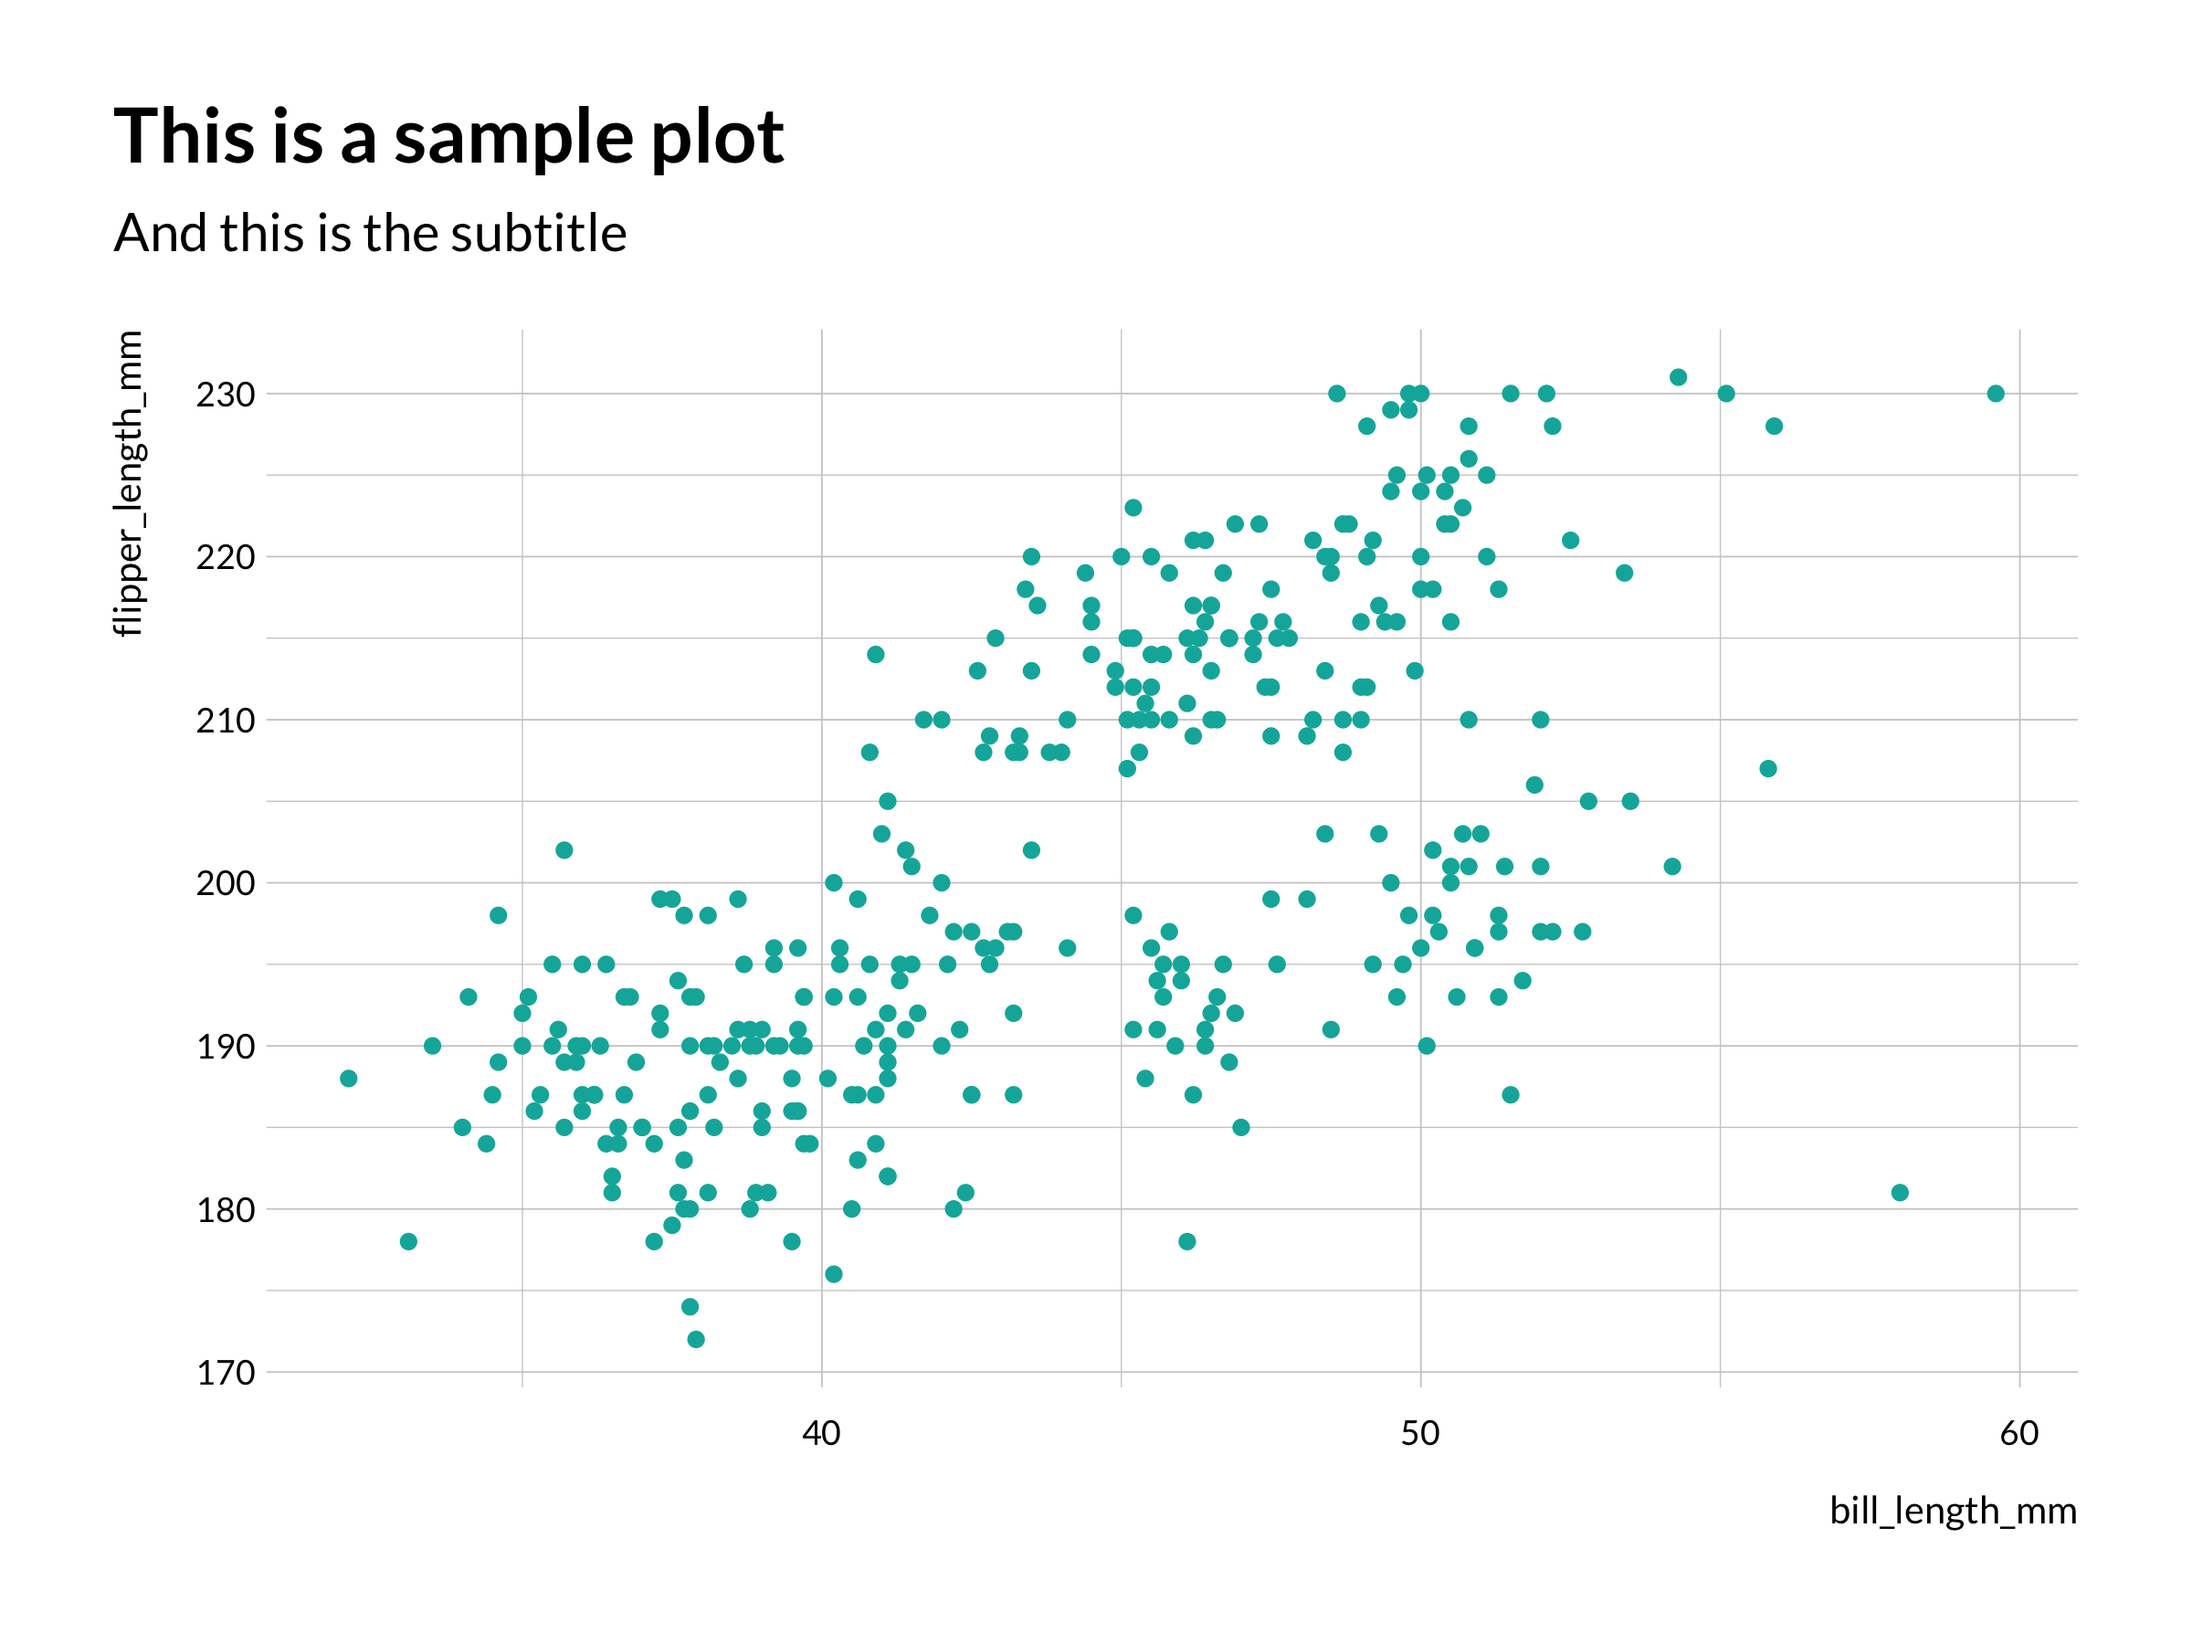
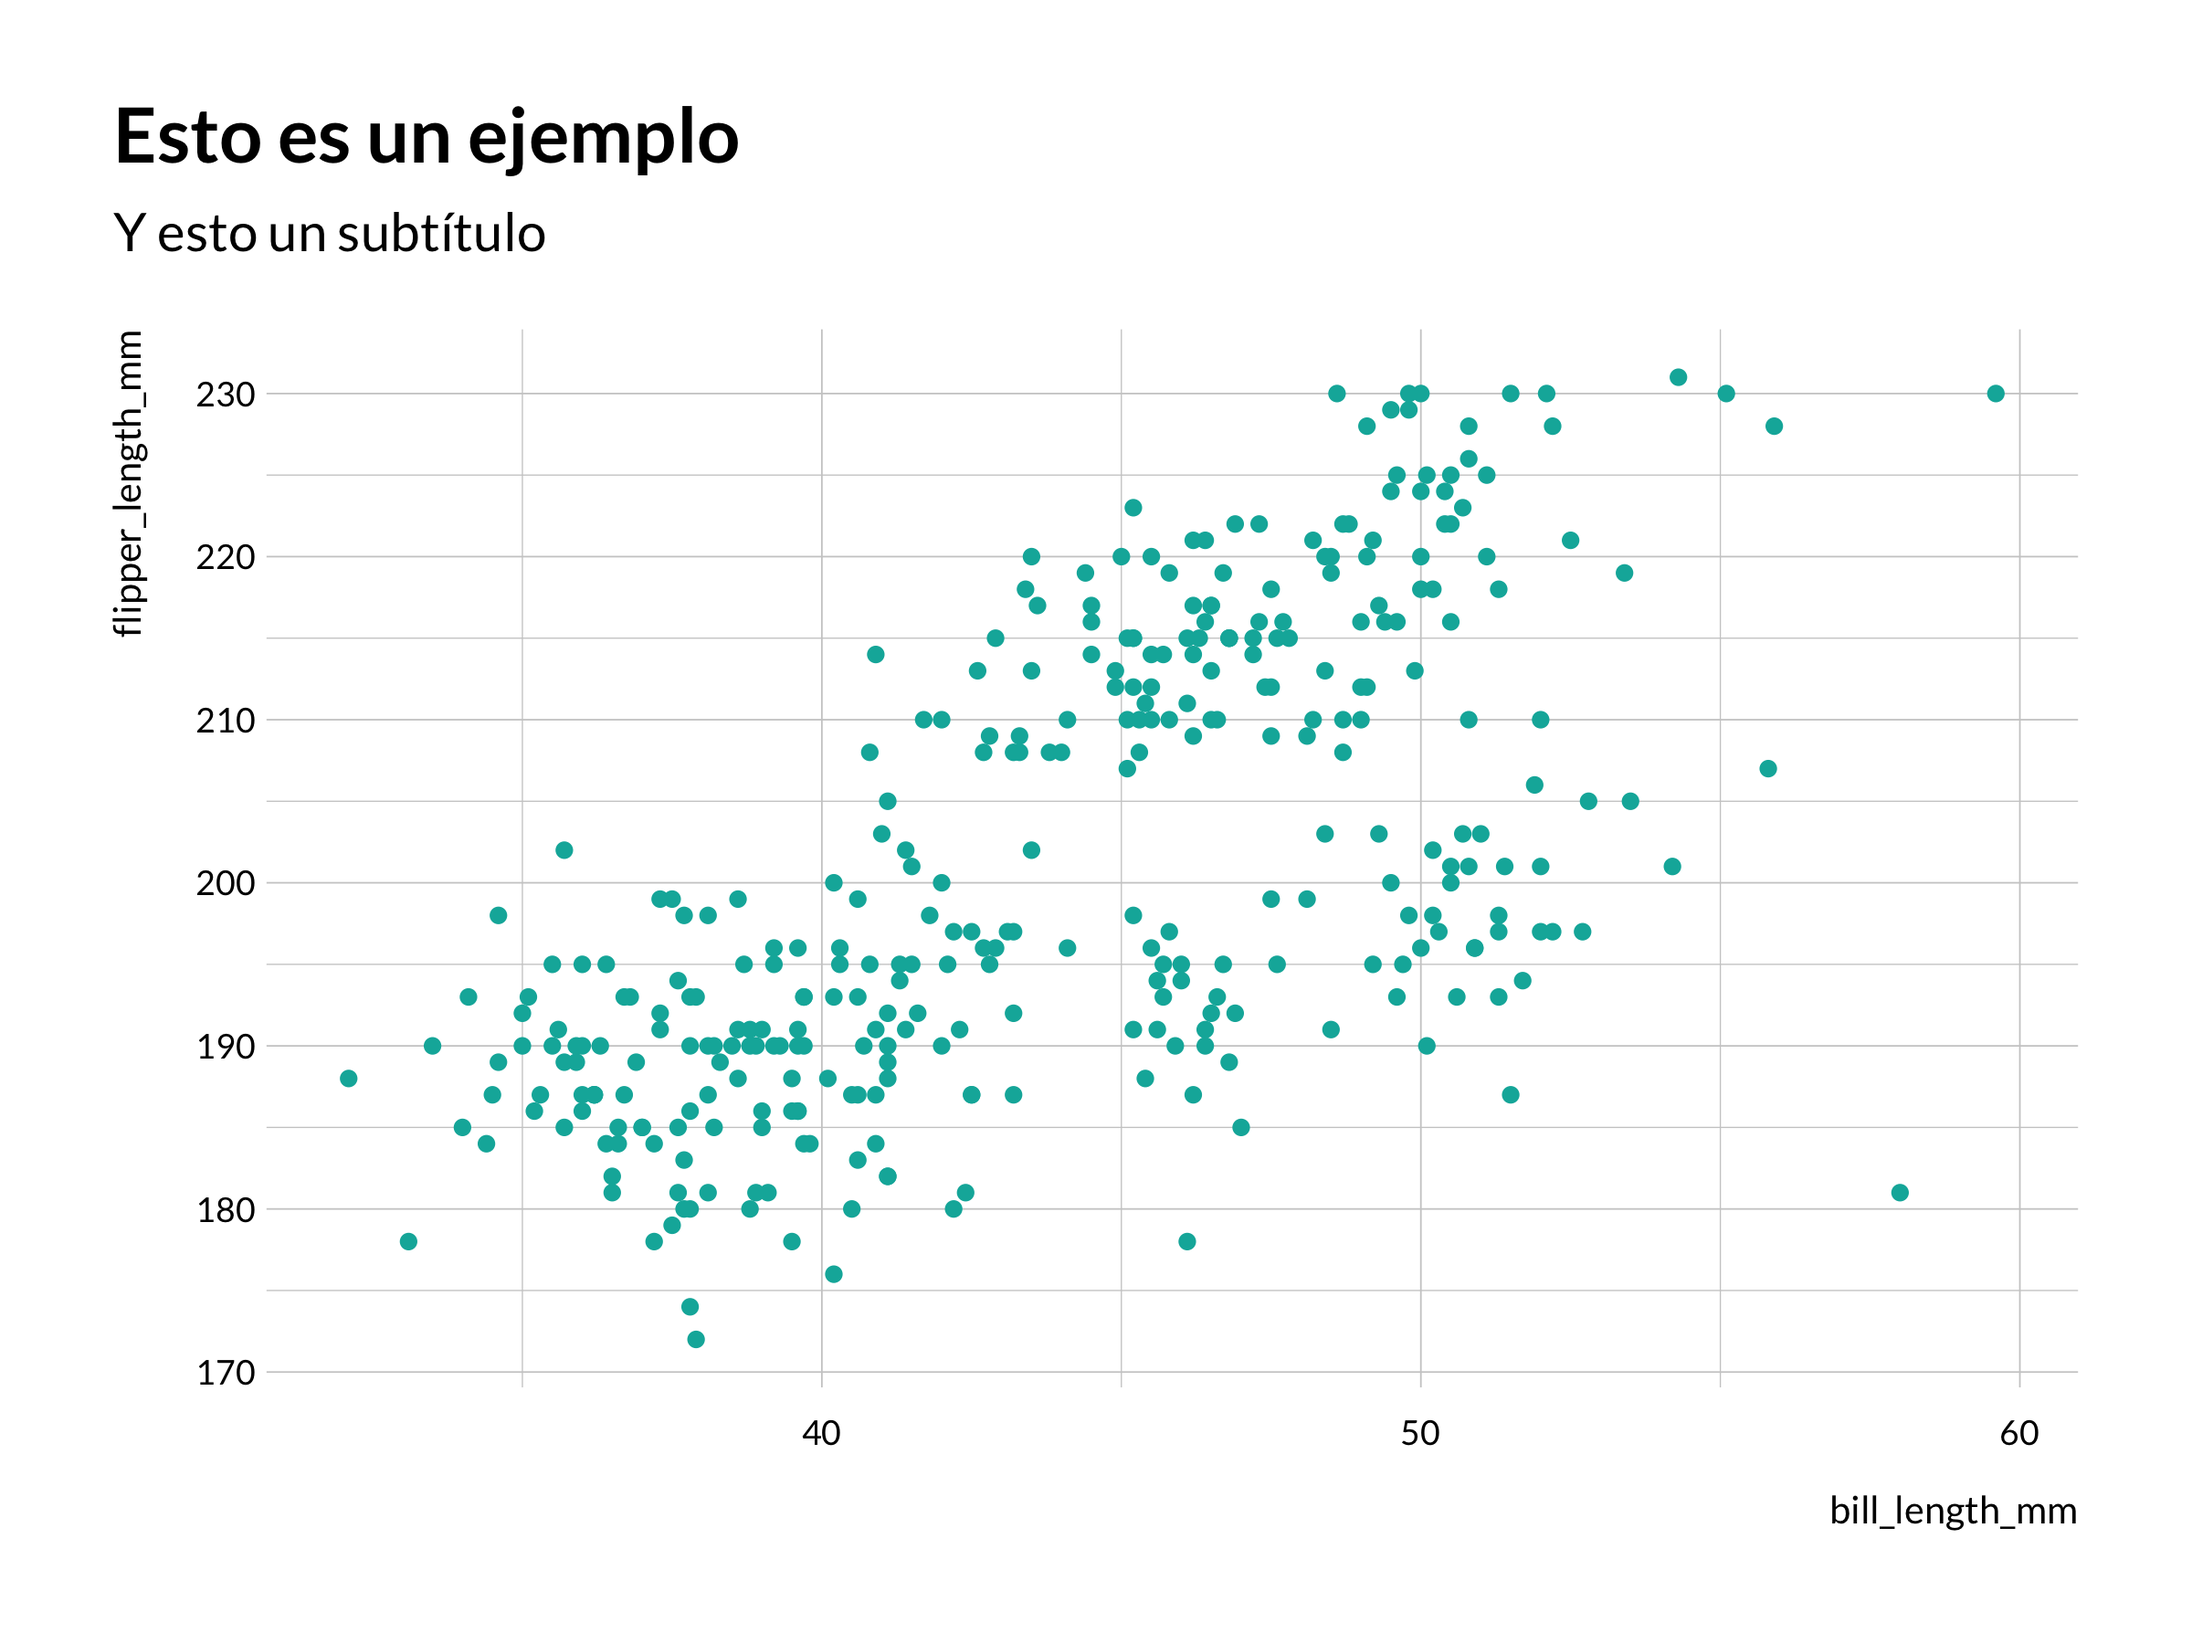
Actualizar gráficas

Changed region(s): [[0.0312, 0.0622, 0.375, 0.1556]]

diff --git a/README.md b/README.md
@@ -31,11 +31,12 @@ devtools::install_github("octmedina/ksnet")
 ## Gráficos
 
 Este es un ejemplo básico que muestra cómo resolver un problema común:
-hacer una gráfica con datos. Empecemos con un scatterplot y un
-histograma.
+hacer una gráfica con datos. Empecemos con un histograma.
 
 ``` r
 library(ksnet)
+library(palmerpenguins)
+library(ggplot2)
 
 ## Plotting a histogram of penguin bill length
 
@@ -46,25 +47,53 @@ ksnet_hist(penguins, bill_length_mm)
 
 <img src="man/figures/README-plots1-1.png" width="100%" />
 
-``` r
-## Simple scatterplot
+La función se puede usar con la pipe también. Aquí hay una gráfica de
+barra.
 
-ksnet_scatter(penguins, bill_length_mm, flipper_length_mm) 
-#> Warning: Removed 2 rows containing missing values (geom_point).
+``` r
+library(dplyr)
+#> 
+#> Attaching package: 'dplyr'
+#> The following objects are masked from 'package:stats':
+#> 
+#>     filter, lag
+#> The following objects are masked from 'package:base':
+#> 
+#>     intersect, setdiff, setequal, union
+
+## Simple barplot
+penguins %>%
+    group_by(species) %>%
+    count() %>%
+    ksnet_bar(species, n) 
 ```
 
 <img src="man/figures/README-plots2-1.png" width="100%" />
+
+Y finalmente, scatterplots. La función viene preparada para incluir el
+color estándar de KSNET, así como la plantilla de gráficos. El objeto
+que genera es un `ggplot`, así que se pueden añadir títulos y etiquetas
+fácilmente:
+
+``` r
+## Simple scatterplot
+penguins %>%
+    ksnet_scatter(bill_length_mm, flipper_length_mm) +
+    labs(title = "Pingüinos KSNET",
+         subtitle = "Según con la EPA")
+#> Warning: Removed 2 rows containing missing values (geom_point).
+```
+
+<img src="man/figures/README-plots3-1.png" width="100%" />
 
 ## Themes
 
 También podemos utilizar `themes`, o plantillas de gráficas.
 
 ``` r
-library(ggplot2)
-
 ksnet_scatter(penguins, bill_length_mm, flipper_length_mm) + 
-  labs(title = "This is a sample plot",
-       subtitle = "And this is the subtitle") +
+  labs(title = "Esto es un ejemplo",
+       subtitle = "Y esto un subtítulo") +
   theme_ksnet()
 #> Warning: Removed 2 rows containing missing values (geom_point).
 ```
@@ -85,7 +114,21 @@ color_ksnet("ksnet_classic")
 
 <img src="man/figures/README-color1-1.png" width="100%" />
 
-Este es el aspecto que tiene cuando lo combinamos con una graáfica.
+Este es el aspecto que tiene cuando lo combinamos con una gráfica.
+
+``` r
+penguins %>%
+    group_by(species) %>%
+    count() %>%
+    ggplot(aes(species, n, fill = species)) + 
+  geom_col() +
+  labs(title = "Pingüinos una vez más",
+       subtitle = "Con subtítulo") +
+  theme_ksnet() +
+  scale_fill_manual(values = color_ksnet("ksnet_classic"))
+```
+
+<img src="man/figures/README-color2-1.png" width="100%" />
 
 ``` r
 ggplot(penguins, aes(bill_length_mm, flipper_length_mm, color = species)) + 
@@ -97,4 +140,4 @@ ggplot(penguins, aes(bill_length_mm, flipper_length_mm, color = species)) +
 #> Warning: Removed 2 rows containing missing values (geom_point).
 ```
 
-<img src="man/figures/README-color2-1.png" width="100%" />
+<img src="man/figures/README-color3-1.png" width="100%" />
